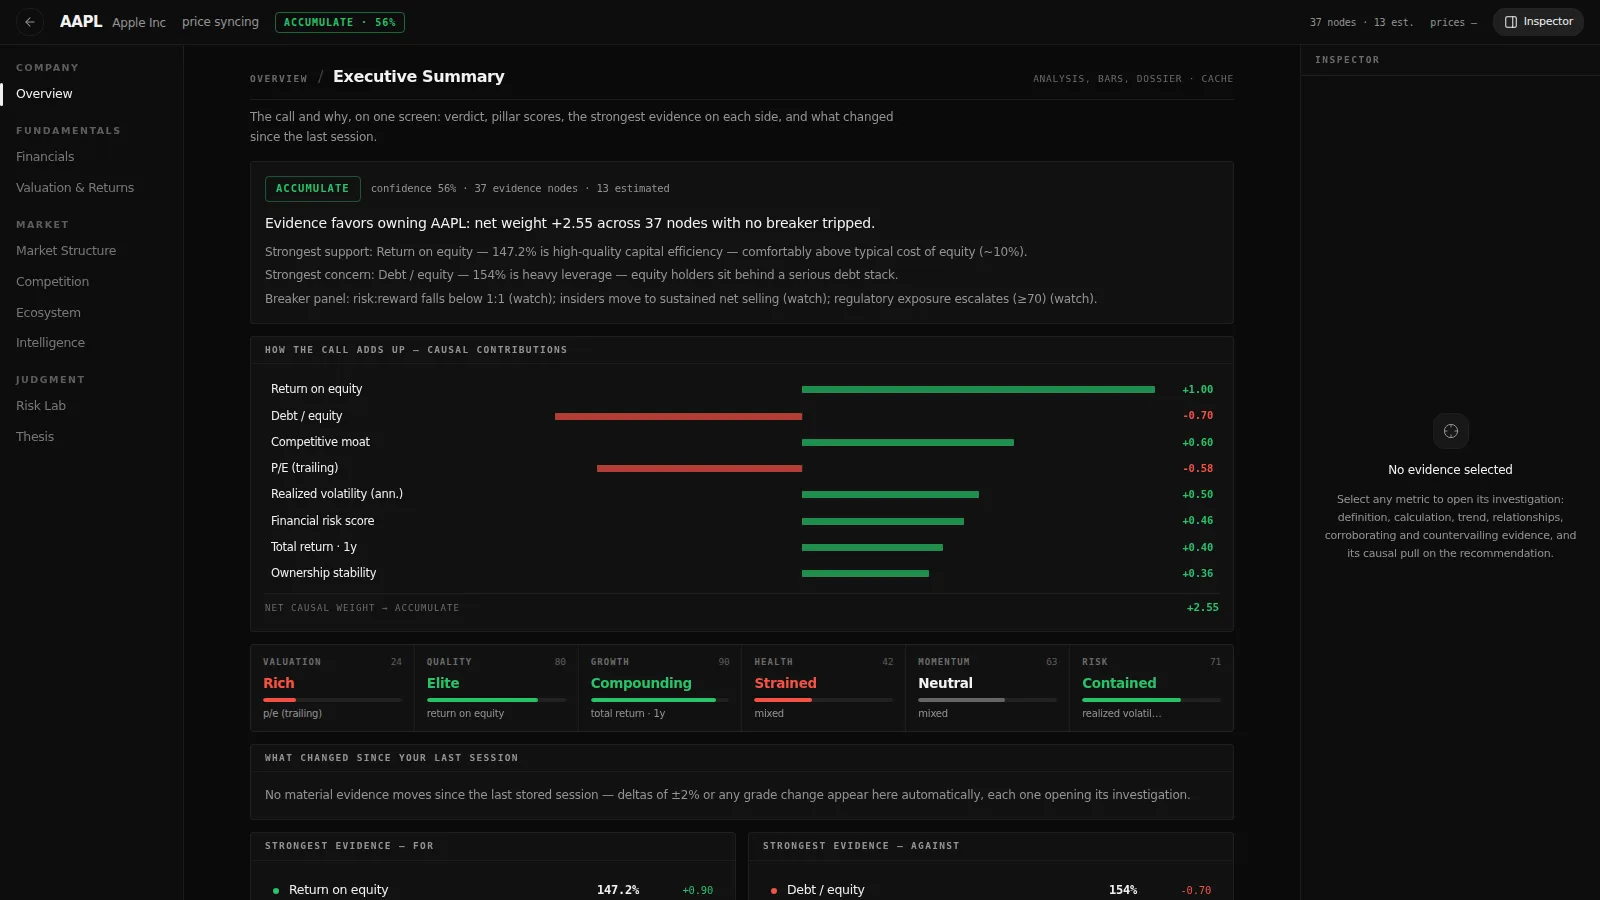
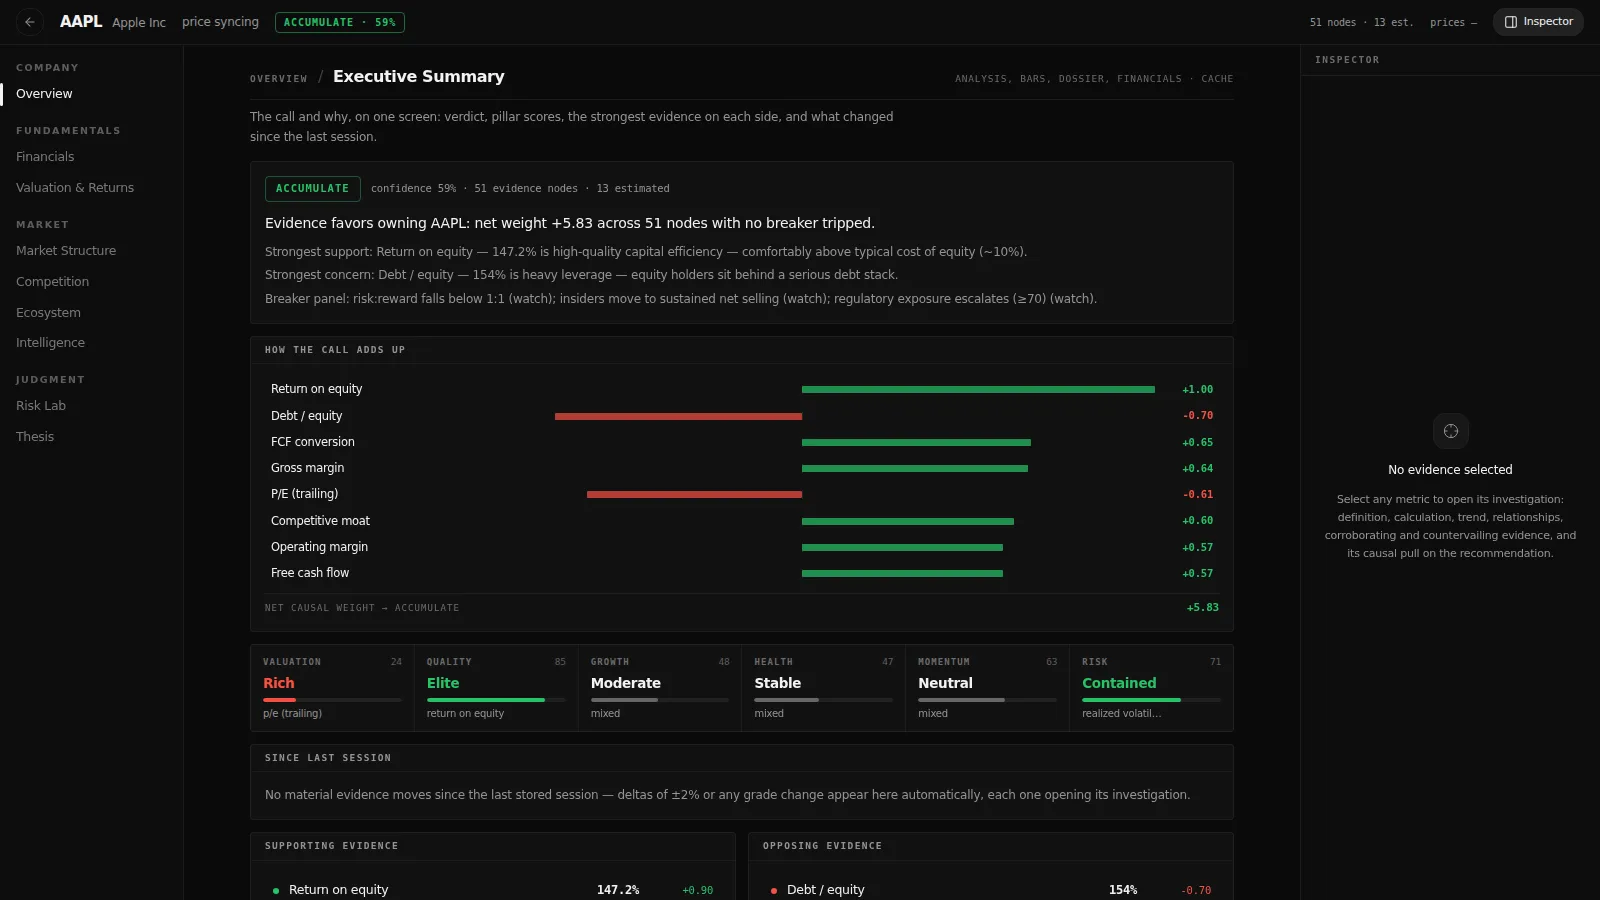
Restraint pass: muted evidence prose, noun headers, focus states
- Evidence-cell assessment lines drop per-grade coloring — grade lives
  in the dot and the data; prose stays muted so color only ever means
  something semantic
- Block headers become nouns (How the call adds up · Since last session
  · Supporting/Opposing evidence · Driver ranking · Premium attribution
  · Standing invalidation conditions)
- Visible keyboard focus rings on every evidence target; quiet fade on
  section change
- Marketing captures regenerated with the refined surface

Claude-Session: https://claude.ai/code/session_019LZjSCaZCU9nd2pJoZNxFj

diff --git a/src/components/workstation/sections/ThesisView.tsx b/src/components/workstation/sections/ThesisView.tsx
@@ -80,7 +80,7 @@ const ThesisView = ({ workspace, section }: { workspace: WorkspaceDef; section: 
             ))}
           </div>
         </Block>
-        <Block title="What you must believe (evidence-anchored)">
+        <Block title="What you must believe">
           <div className="space-y-0.5">
             {synthesis.keyDrivers.map((d) => (
               <MetricRow key={d.id} metric={graph.metrics[d.id]} />
@@ -97,7 +97,7 @@ const ThesisView = ({ workspace, section }: { workspace: WorkspaceDef; section: 
 
   function KeyDrivers() {
     return (
-      <Block title="Drivers ranked by influence on the call">
+      <Block title="Driver ranking">
         <div className="space-y-0.5">
           {synthesis.ledger.movers.map((m) => (
             <MetricRow key={m.id} metric={graph.metrics[m.id]} />
@@ -149,7 +149,7 @@ const ThesisView = ({ workspace, section }: { workspace: WorkspaceDef; section: 
     if (priced.length < 3) return null;
     const ev = priced.reduce((acc, c) => acc + (c.returnPct! * c.probability) / 100, 0);
     return (
-      <Block title="Probability-weighted expected return">
+      <Block title="Expected return">
         <p className="text-[13px] text-foreground">
           <span className={`font-semibold tabular-nums ${ev >= 0 ? "text-gain" : "text-loss"}`}>
             {ev >= 0 ? "+" : ""}
@@ -182,7 +182,7 @@ const ThesisView = ({ workspace, section }: { workspace: WorkspaceDef; section: 
           </div>
         </Block>
         {engine && (
-          <Block title="Independent engine cross-check">
+          <Block title="Engine cross-check">
             <MetricRow metric={engine} />
             <p className="mt-2 text-[11px] leading-relaxed text-muted-foreground/70">
               The desk's confluence engine weighs the same name with different priors. Agreement with
@@ -196,7 +196,7 @@ const ThesisView = ({ workspace, section }: { workspace: WorkspaceDef; section: 
 
   function Breakers() {
     return (
-      <Block title="Standing invalidation conditions — evaluated on every data refresh">
+      <Block title="Standing invalidation conditions">
         <div className="space-y-2.5">
           {synthesis.breakers.map((b) => (
             <div key={b.id} className="flex items-start gap-3 rounded-sm border border-border/60 px-3 py-2.5">
@@ -241,7 +241,7 @@ const ThesisView = ({ workspace, section }: { workspace: WorkspaceDef; section: 
             any breaker off intact. Nothing is asserted — remove evidence and the number falls.
           </p>
         </Block>
-        <Block title="How the call adds up — causal contributions">
+        <Block title="How the call adds up">
           <ContributionWaterfall limit={12} />
         </Block>
       </>

diff --git a/src/components/workstation/sections/OverviewView.tsx b/src/components/workstation/sections/OverviewView.tsx
@@ -43,7 +43,7 @@ const OverviewView = ({ workspace, section }: { workspace: WorkspaceDef; section
   if (graph.coverage.total === 0) {
     return (
       <SectionShell workspace={workspace} section={section} wide>
-        <Block title="Evidence engines are re-syncing">
+        <Block title="Evidence pending">
           <p className="text-[13px] leading-relaxed text-muted-foreground">
             No feed answered on the first pass for {ticker} — the desk keeps retrying in the background
             and this page fills in the moment any engine lands. Live prices, fundamentals and the
@@ -84,7 +84,7 @@ const OverviewView = ({ workspace, section }: { workspace: WorkspaceDef; section
       </Block>
 
       {/* How the call adds up — causal contributions around the zero axis */}
-      <Block title="How the call adds up — causal contributions">
+      <Block title="How the call adds up">
         <ContributionWaterfall />
       </Block>
 
@@ -127,7 +127,7 @@ const OverviewView = ({ workspace, section }: { workspace: WorkspaceDef; section
       </div>
 
       {/* What changed — real session-over-session evidence deltas */}
-      <Block title="What changed since your last session">
+      <Block title="Since last session">
         {changes.length > 0 ? (
           <div className="space-y-0.5">
             {changes.slice(0, 5).map((c) => (
@@ -167,7 +167,7 @@ const OverviewView = ({ workspace, section }: { workspace: WorkspaceDef; section
 
       {/* Evidence for / against */}
       <div className="grid gap-3 lg:grid-cols-2">
-        <Block title="Strongest evidence — for">
+        <Block title="Supporting evidence">
           {supporting.length > 0 ? (
             <div className="space-y-0.5">
               {supporting.map((m) => (
@@ -180,7 +180,7 @@ const OverviewView = ({ workspace, section }: { workspace: WorkspaceDef; section
             </p>
           )}
         </Block>
-        <Block title="Strongest evidence — against">
+        <Block title="Opposing evidence">
           {opposing.length > 0 ? (
             <div className="space-y-0.5">
               {opposing.map((m) => (

diff --git a/src/components/workstation/Metric.tsx b/src/components/workstation/Metric.tsx
@@ -73,7 +73,7 @@ export const MetricStat = ({ metric }: { metric: EvidenceMetric }) => {
       onClick={() => select(metric.id)}
       aria-pressed={active}
       data-evidence-related={related || undefined}
-      className={`group flex min-w-0 flex-col px-3 py-2.5 text-left transition-colors duration-300 ${
+      className={`group flex min-w-0 flex-col px-3 py-2.5 text-left transition-colors duration-300 focus-visible:outline-none focus-visible:ring-1 focus-visible:ring-inset focus-visible:ring-foreground/40 ${
         active
           ? "bg-surface-3"
           : related
@@ -100,7 +100,10 @@ export const MetricStat = ({ metric }: { metric: EvidenceMetric }) => {
           />
         </span>
       )}
-      <span className={`mt-0.5 line-clamp-2 text-[11px] leading-snug ${gradeText[metric.assessment.grade]}`}>
+      <span
+        title={metric.assessment.reason}
+        className="mt-0.5 line-clamp-2 text-[11px] leading-snug text-muted-foreground"
+      >
         {metric.assessment.reason}
       </span>
     </button>
@@ -117,7 +120,7 @@ export const MetricRow = ({ metric, trailing }: { metric: EvidenceMetric; traili
       onClick={() => select(metric.id)}
       aria-pressed={active}
       data-evidence-related={related || undefined}
-      className={`flex w-full items-baseline gap-2.5 rounded-sm px-2 py-1.5 text-left transition-colors duration-300 ${
+      className={`flex w-full items-baseline gap-2.5 rounded-sm px-2 py-1.5 text-left transition-colors duration-300 focus-visible:outline-none focus-visible:ring-1 focus-visible:ring-inset focus-visible:ring-foreground/40 ${
         active
           ? "bg-surface-3"
           : related

diff --git a/src/components/workstation/sections/DossierView.tsx b/src/components/workstation/sections/DossierView.tsx
@@ -71,7 +71,7 @@ const PremiumAttribution = () => {
   const distributing = holders.filter((h) => h.trend === "distributing").map((h) => h.name).filter(Boolean);
 
   return (
-    <Block title="Premium attribution — why the multiple is where it is">
+    <Block title="Premium attribution">
       <p className="text-[12.5px] leading-relaxed text-foreground">
         Trades at <button onClick={() => select("pe")} className="font-mono font-semibold underline decoration-border underline-offset-2 hover:decoration-foreground">{pe.value}×</button>{" "}
         trailing earnings — {premiumPct >= 0 ? `a ${premiumPct}% premium to` : `a ${Math.abs(premiumPct)}% discount to`} the
@@ -191,7 +191,7 @@ function renderDetail(key: string, d: Dossier, analysis: DeskAnalysis | null) {
       return (
         <>
           {suppliers.length > 0 && (
-            <Block title="Key suppliers & dependence risk">
+            <Block title="Key suppliers">
               <div className="grid gap-2 sm:grid-cols-2">
                 {suppliers.map((s, i) => (
                   <div key={i} className="flex items-start justify-between gap-3 rounded-sm border border-border/60 px-3 py-2">
@@ -236,7 +236,7 @@ function renderDetail(key: string, d: Dossier, analysis: DeskAnalysis | null) {
       return (
         <>
           {segments.length > 0 && (
-            <Block title="Demand mix — where revenue comes from">
+            <Block title="Demand mix">
               {segments.map((s, i) => (
                 <ShareBar key={i} label={s.segment ?? "Segment"} pct={s.percentage ?? 0} detail={s.trend} />
               ))}

diff --git a/src/pages/CompanyWorkstationPage.tsx b/src/pages/CompanyWorkstationPage.tsx
@@ -67,7 +67,9 @@ const CompanyWorkstationPage = () => {
         <div className="flex min-h-0 flex-1 flex-col md:flex-row">
           <SectionRail ticker={ticker} activeWorkspaceId={workspace.id} activeSectionId={section.id} />
           <main className="no-touch-bounce min-w-0 flex-1 overflow-auto">
-            <SectionContent workspace={workspace} section={section} />
+            <div key={`${workspace.id}/${section.id}`} className="animate-fade-in">
+              <SectionContent workspace={workspace} section={section} />
+            </div>
           </main>
           {inspectorOpen && <InspectorPanel />}
         </div>

diff --git a/src/components/workstation/sections/MonteCarloView.tsx b/src/components/workstation/sections/MonteCarloView.tsx
@@ -22,7 +22,7 @@ const MonteCarloView = ({ workspace, section }: { workspace: WorkspaceDef; secti
       {hasRanges ? (
         <>
           <MonteCarloChart currentPrice={price} bullRange={a!.bullRange} bearRange={a!.bearRange} ticker={graph.ticker} />
-          <Block title="Simulated 21-day bands">
+          <Block title="Simulated bands · 21 sessions">
             <div className="grid grid-cols-3 gap-2">
               <BandTile label="Bear band" lo={a!.bearRange[0]} hi={a!.bearRange[1]} currency={graph.currency} tone="loss" />
               {Array.isArray(a?.neutralRange) && (